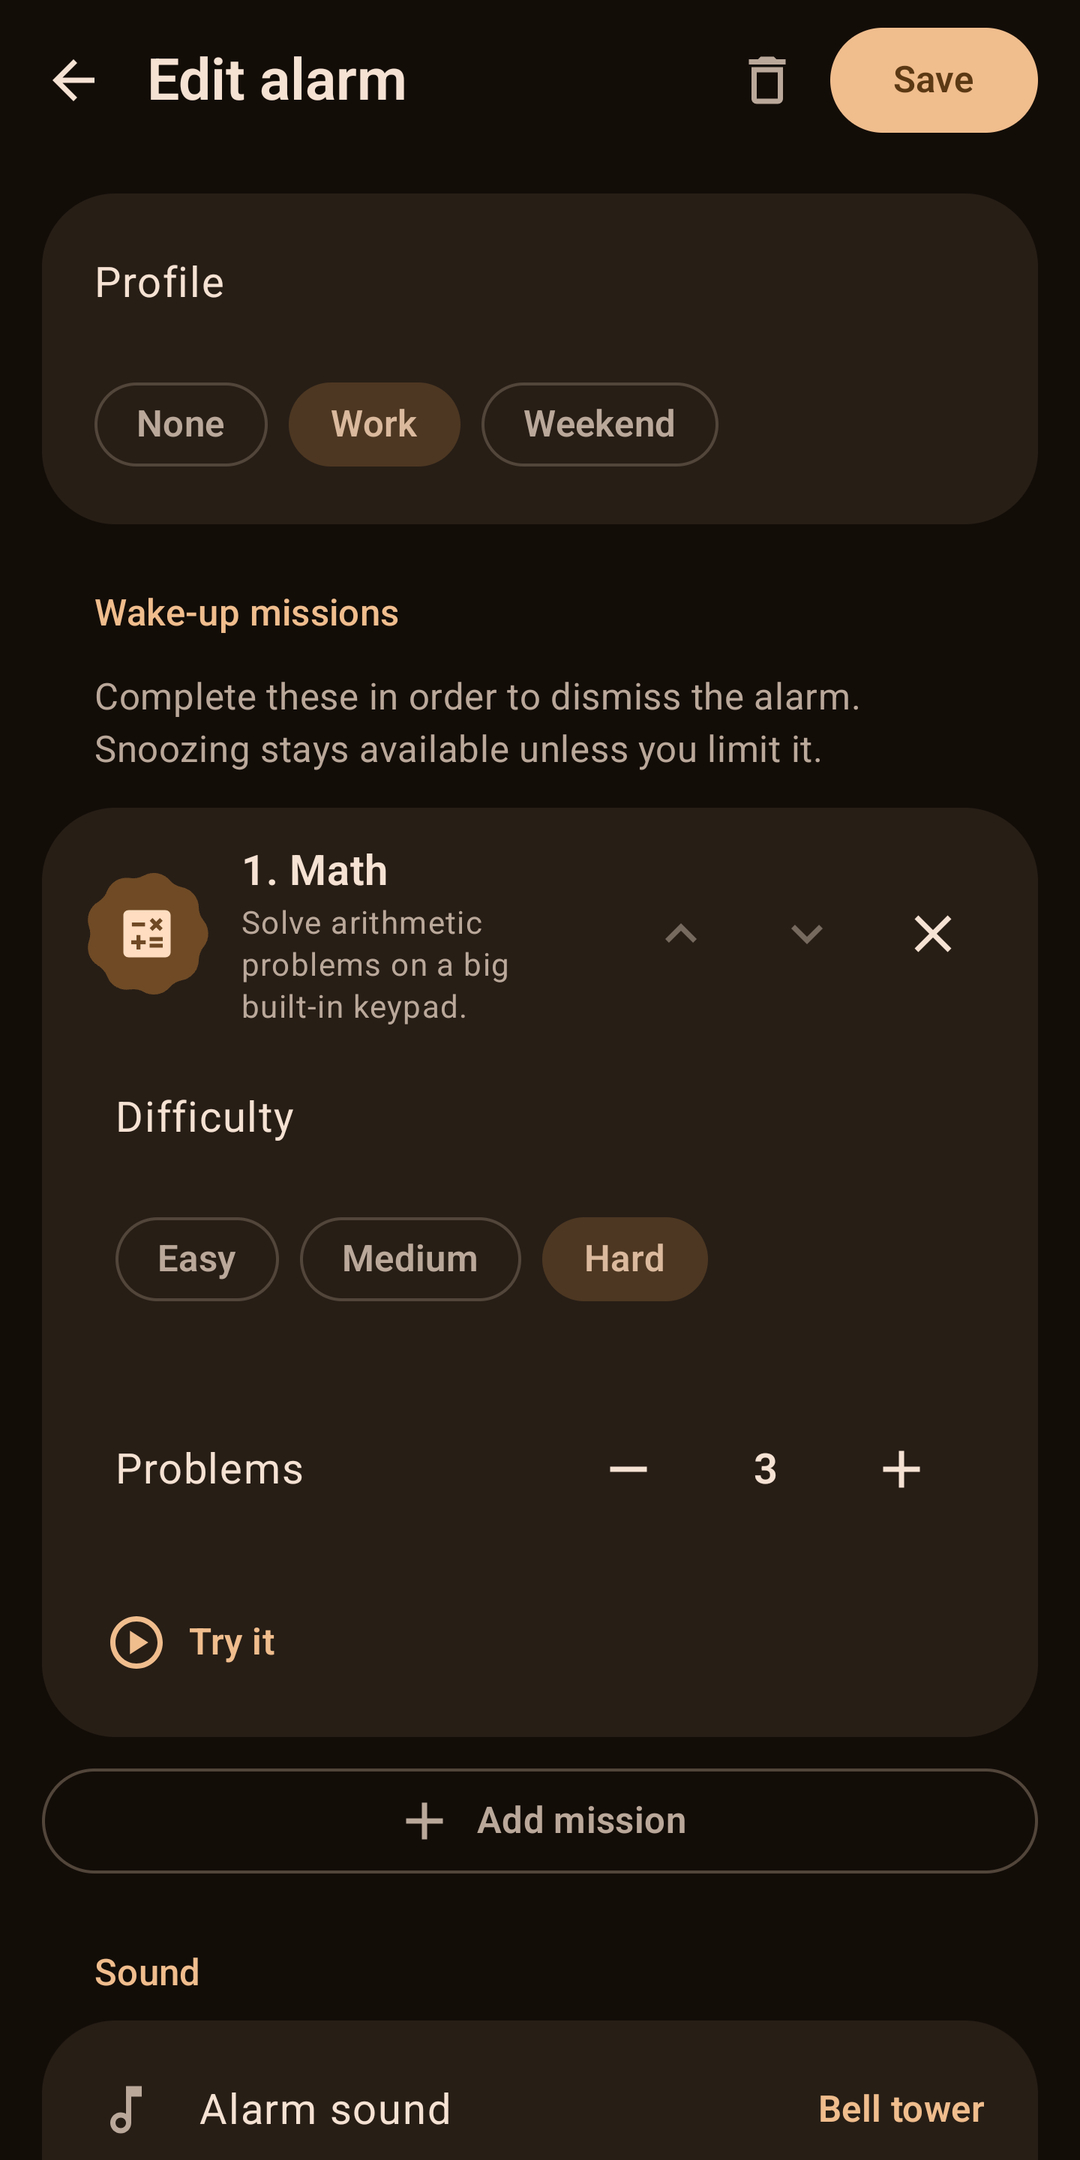
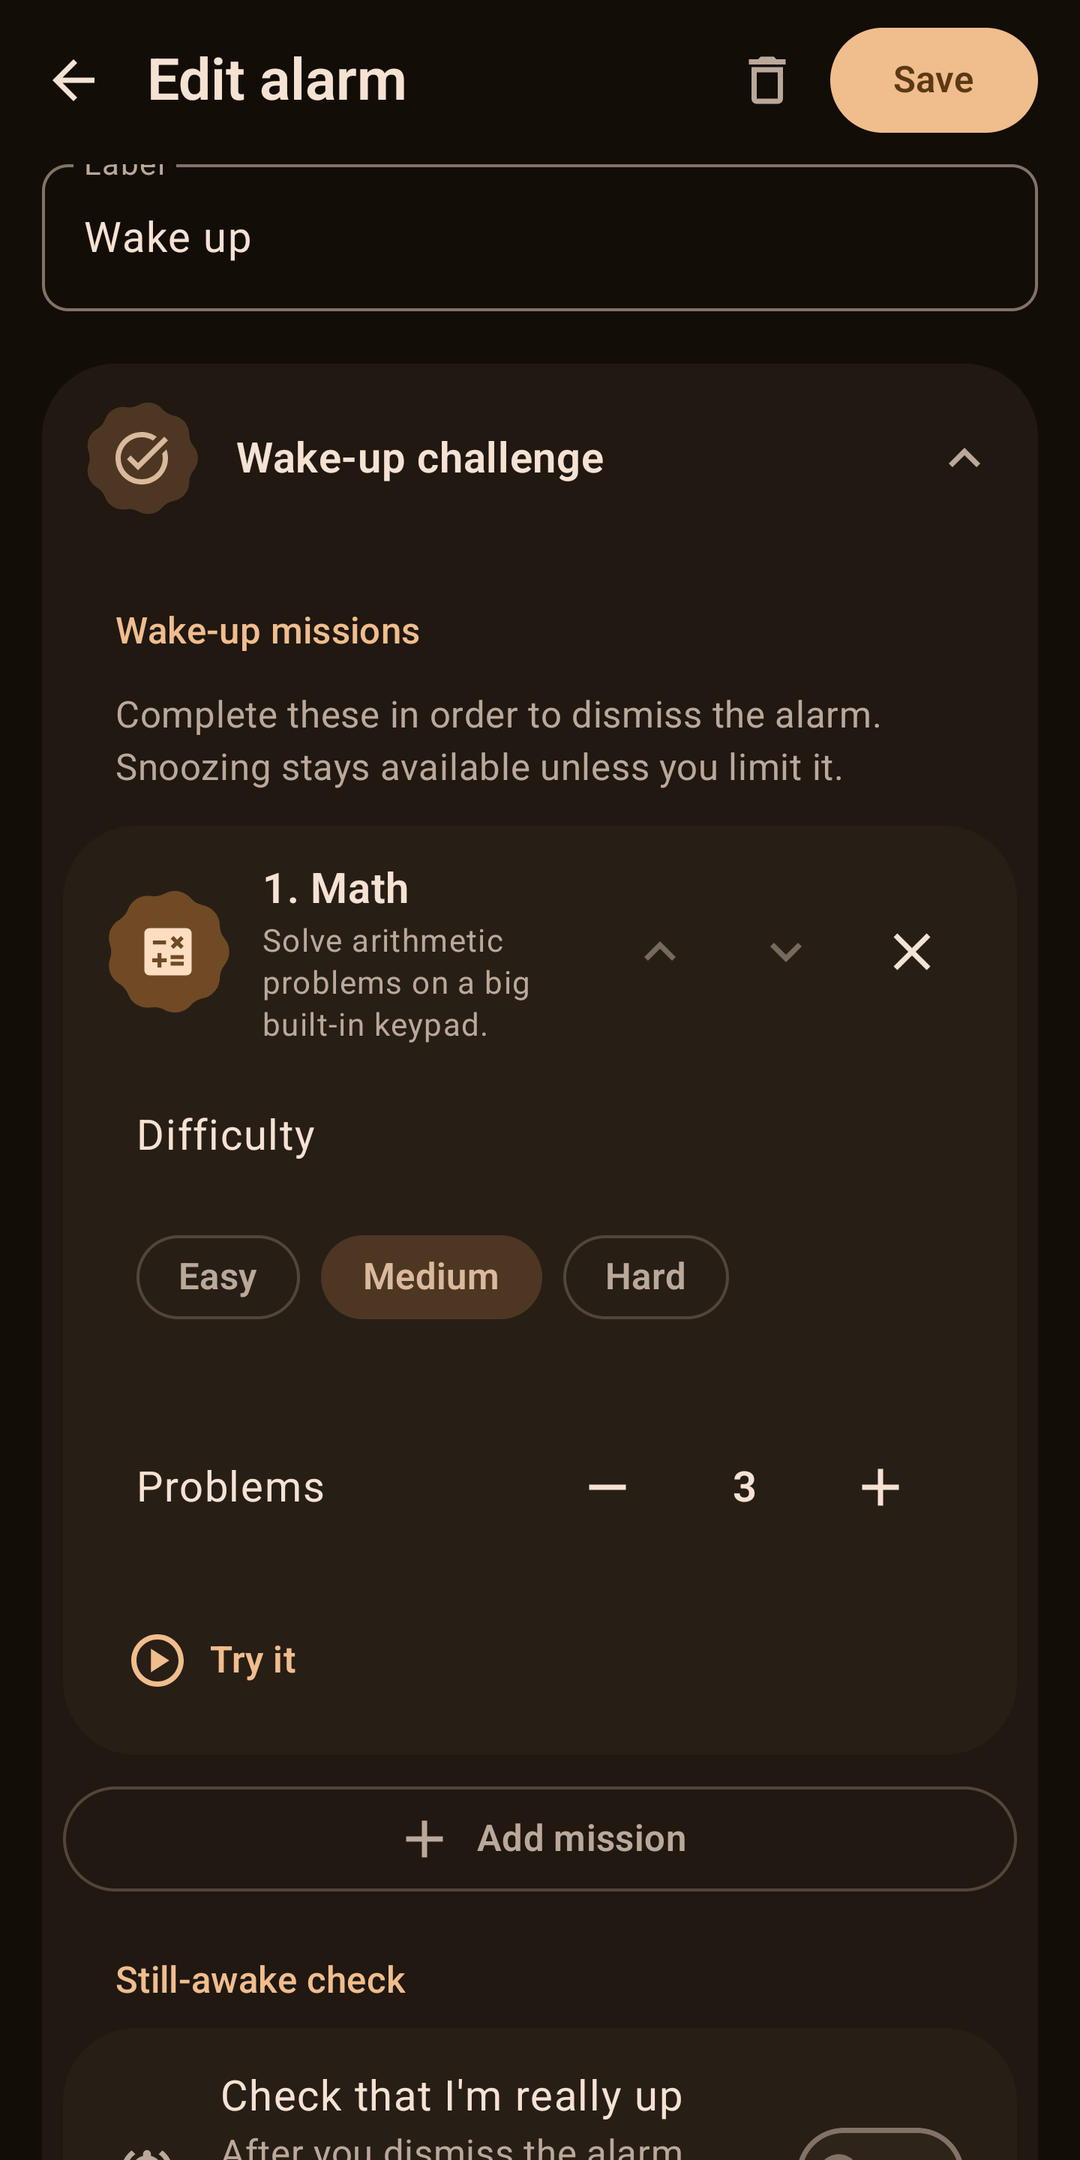
Refresh the editor and missions screenshots for the categorised editor

diff --git a/README.md b/README.md
@@ -73,8 +73,8 @@ Real captures from a Pixel 6 Pro in the dark theme. WakeNudge also has light and
 
 <p align="center">
   <img src="fastlane/metadata/android/en-US/images/phoneScreenshots/1_alarms.png" width="190" alt="WakeNudge alarm list showing the next alarm, alarm profiles and a still-awake check">
-  <img src="fastlane/metadata/android/en-US/images/phoneScreenshots/2_edit_alarm.png" width="190" alt="Alarm editor with an animated time picker and repeat days">
-  <img src="fastlane/metadata/android/en-US/images/phoneScreenshots/3_missions.png" width="190" alt="Choosing wake-up missions for an alarm, with difficulty and problem count">
+  <img src="fastlane/metadata/android/en-US/images/phoneScreenshots/2_edit_alarm.png" width="190" alt="Alarm editor with options grouped into collapsible categories, each with a live summary, and a snooze switch">
+  <img src="fastlane/metadata/android/en-US/images/phoneScreenshots/3_missions.png" width="190" alt="The wake-up challenge category with a math mission, its difficulty and problem count, and the still-awake check">
   <img src="fastlane/metadata/android/en-US/images/phoneScreenshots/4_mission_math.png" width="190" alt="The math wake-up mission with a large number keypad">
 </p>
 <p align="center">
